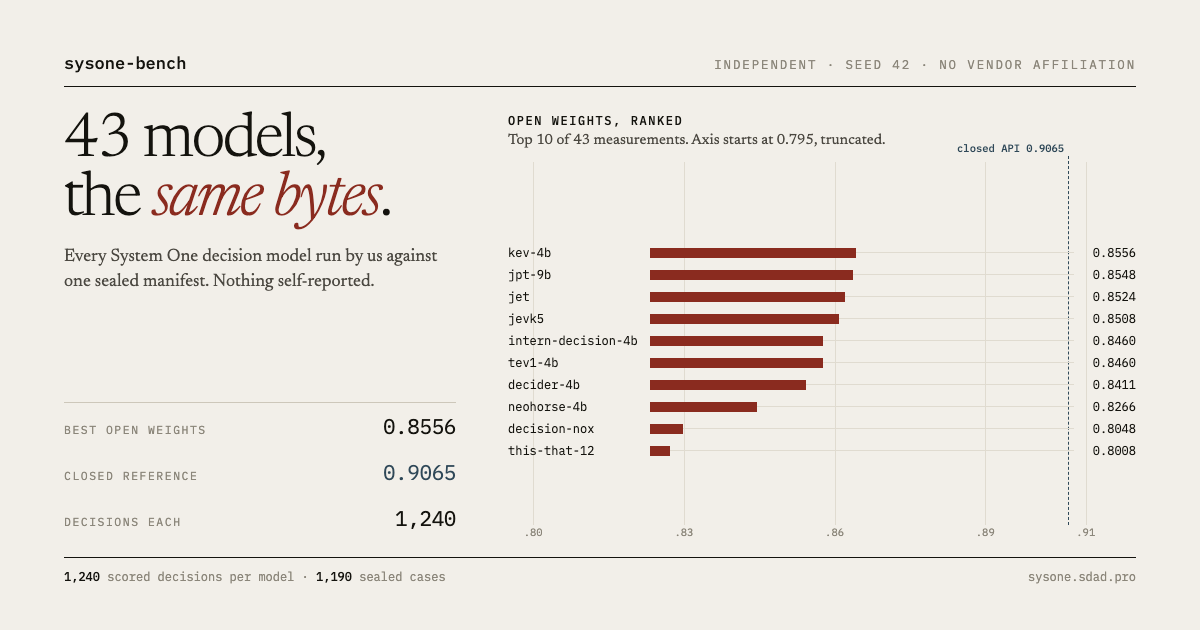
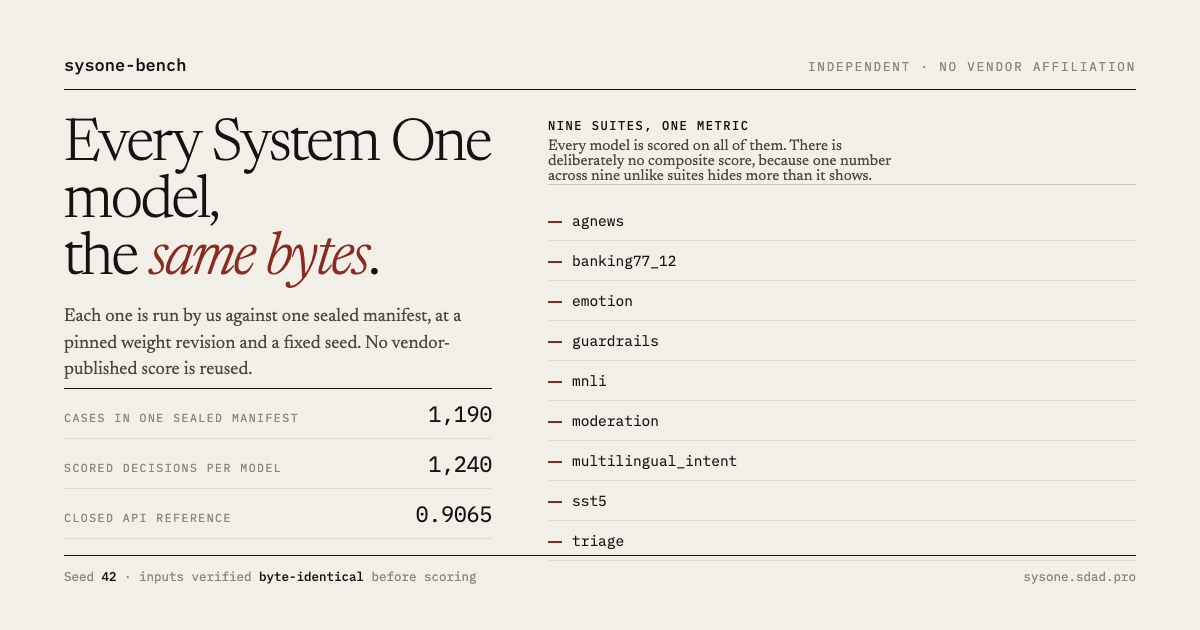
Drop the model count from og.png so the card cannot go stale
A social card is a static PNG. Printing 43, the best open score, or a top-10
ranking on it means every one of those claims is wrong the moment another model
is measured, and nothing regenerates the image at that point.

The card now carries only facts that are stable by construction: sealed case
count, scored decisions per model, closed-API reference, seed. Headline is now
"Every System One model, the same bytes." The right column lists the nine
suites as a ruled list. An earlier pass in this commit drew them as bars, which
had to go: every bar was the same length, asserting a magnitude the data does
not contain.

Two framing bugs fixed while rebuilding: the stats block overlapped the footer
rule, and putting flex centring on the <ul> turned its <li> into flex items in a
row. CSS multi-column also blew the card out to 1475px before being dropped.
The generator now asserts frame bounds, footer clearance, stats/footer
collision, and that no volatile token appears in the rendered text.

Docs: AGENTS.md forbids volatile claims on the card and forbids unsupported
magnitudes; README documents the same constraints and the new assertions.

diff --git a/webpage/README.md b/webpage/README.md
@@ -37,16 +37,23 @@ dropped rather than shown.
 
 ## Social image and icons
 
-`og.png` is rendered from `data/results.json` by a headless-Chromium pass, so the numbers on the card
-cannot drift from the published results. It uses the same paper, ink, oxblood accent and type as the
-site. Regenerate it whenever the data changes:
+`og.png` is rendered by a headless-Chromium pass, using the same paper, ink, oxblood accent and type
+as the site. It deliberately prints no volatile fact: no model count, no best open score, no ranking.
+A social card is a static PNG, so any of those would be a false claim the moment a new model is
+measured. It carries the stable method facts only - sealed case count, scored decisions per model,
+closed-API reference, seed - and lists the nine suites as a ruled list rather than as bars,
+because equal-length bars would assert a magnitude that does not exist.
+
+Regenerate it if the method framing changes, using these constraints:
 
 1. Build a 1200x630 HTML card that reads `data/results.json` for the model count, best open score,
    closed reference and decision count, and draws the top scores as a ranked strip normalised across
    the displayed range.
 2. Screenshot it at 1200x630 with the viewport matched, and assert `scrollHeight <= 630` and that the
    footer sits above the fold. An earlier pass silently clipped the stats.
-3. `apple-touch-icon.png` and `icon-512.png` are the same mark rendered at 180 and 512 with the
+3. Assert the frame: `scrollHeight <= 630`, `scrollWidth <= 1200`, the footer sits above the fold, and
+   the stats block does not collide with the footer rule.
+4. `apple-touch-icon.png` and `icon-512.png` are the same mark rendered at 180 and 512 with the
    wrapper sized to the viewport. A fixed-size wrapper leaves the mark in the corner of a larger canvas.
 
 All four files are committed assets. Serving the site still requires no build step.

diff --git a/webpage/AGENTS.md b/webpage/AGENTS.md
@@ -41,8 +41,15 @@
 - No secrets, tokens, or keys in this directory. `vercel.json` carries headers and caching only.
 - `favicon.svg` is the icon source of truth. `icon-512.png` and `apple-touch-icon.png` are rasters of
   it, and the touch icon must stay full-bleed because iOS applies its own mask.
-- `og.png` must be regenerated from `data/results.json` whenever the data changes. Never type a score
-  into the card by hand. It is 1200x630 and nothing may overflow that frame.
+- `og.png` is a static PNG, so anything printed on it goes stale the moment another model lands.
+  It must therefore claim **no volatile fact**: not the measurement count, not the best open score,
+  not any ranking or top-N. It carries only the stable method facts: sealed case count, scored
+  decisions per model, closed-API reference, seed. Do not add a count back without also solving
+  per-deploy card regeneration.
+- Never draw a magnitude the data does not support. Equal-length bars for the nine suites were
+  removed for exactly this reason; the suites are listed as a ruled list instead.
+- Never type a score into the card by hand. It is 1200x630 and nothing may overflow that frame or
+  collide with the footer rule; assert both.
 - `llms-full.txt` is generated from `data/results.json`. It is the single self-contained answer source
   for AI engines and must never be hand-edited or left to drift from the site. Regenerate it whenever
   the data changes, alongside `og.png`.
